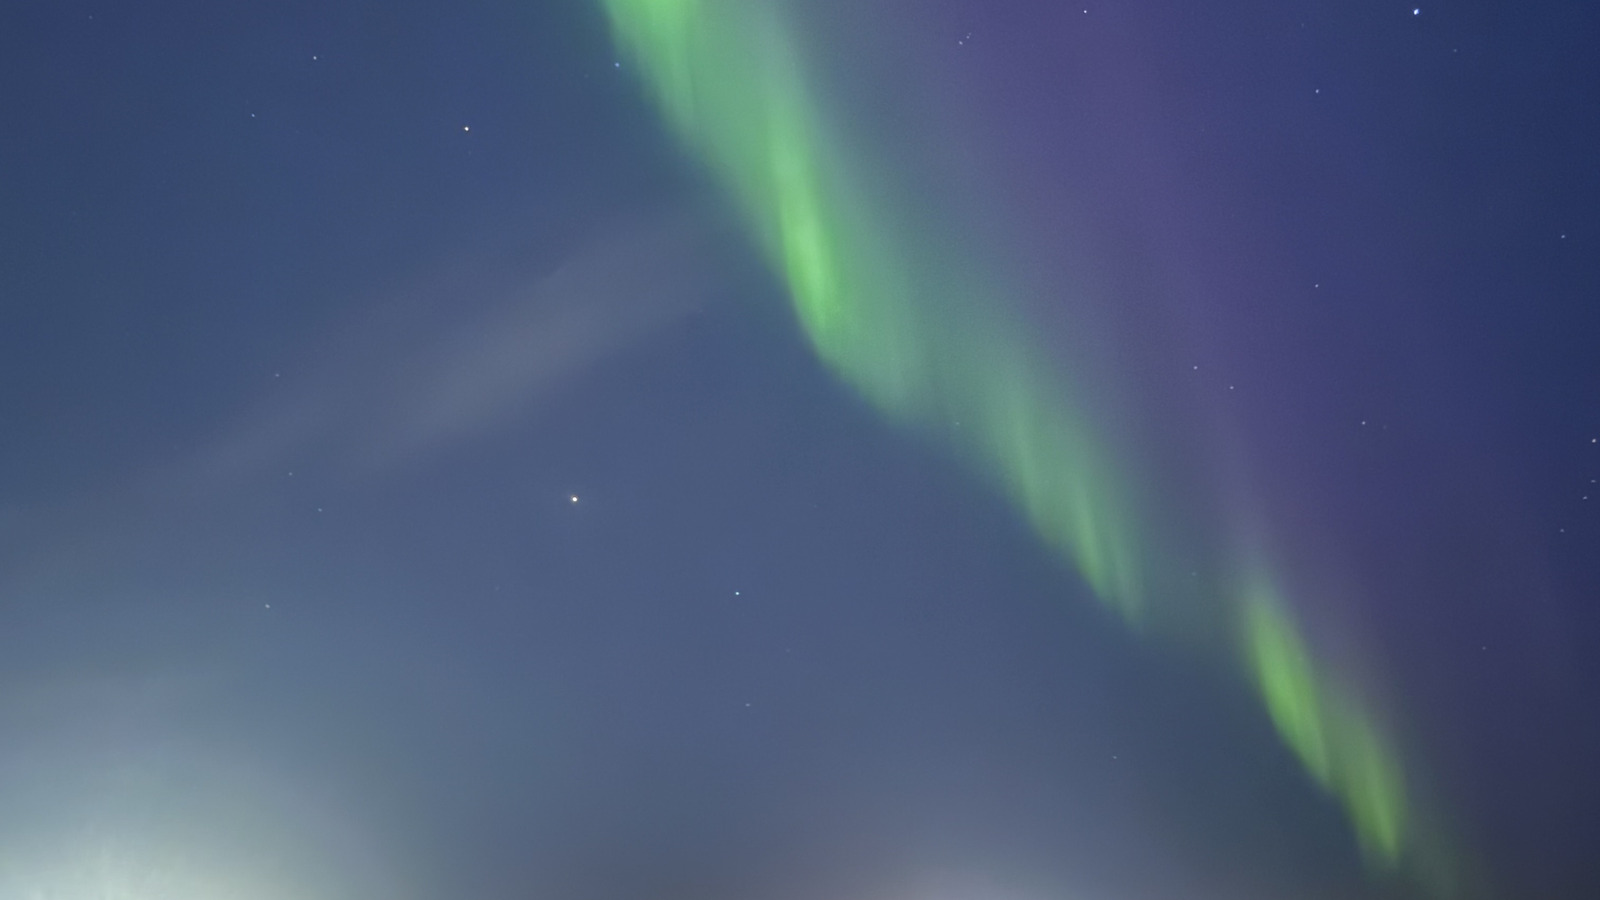
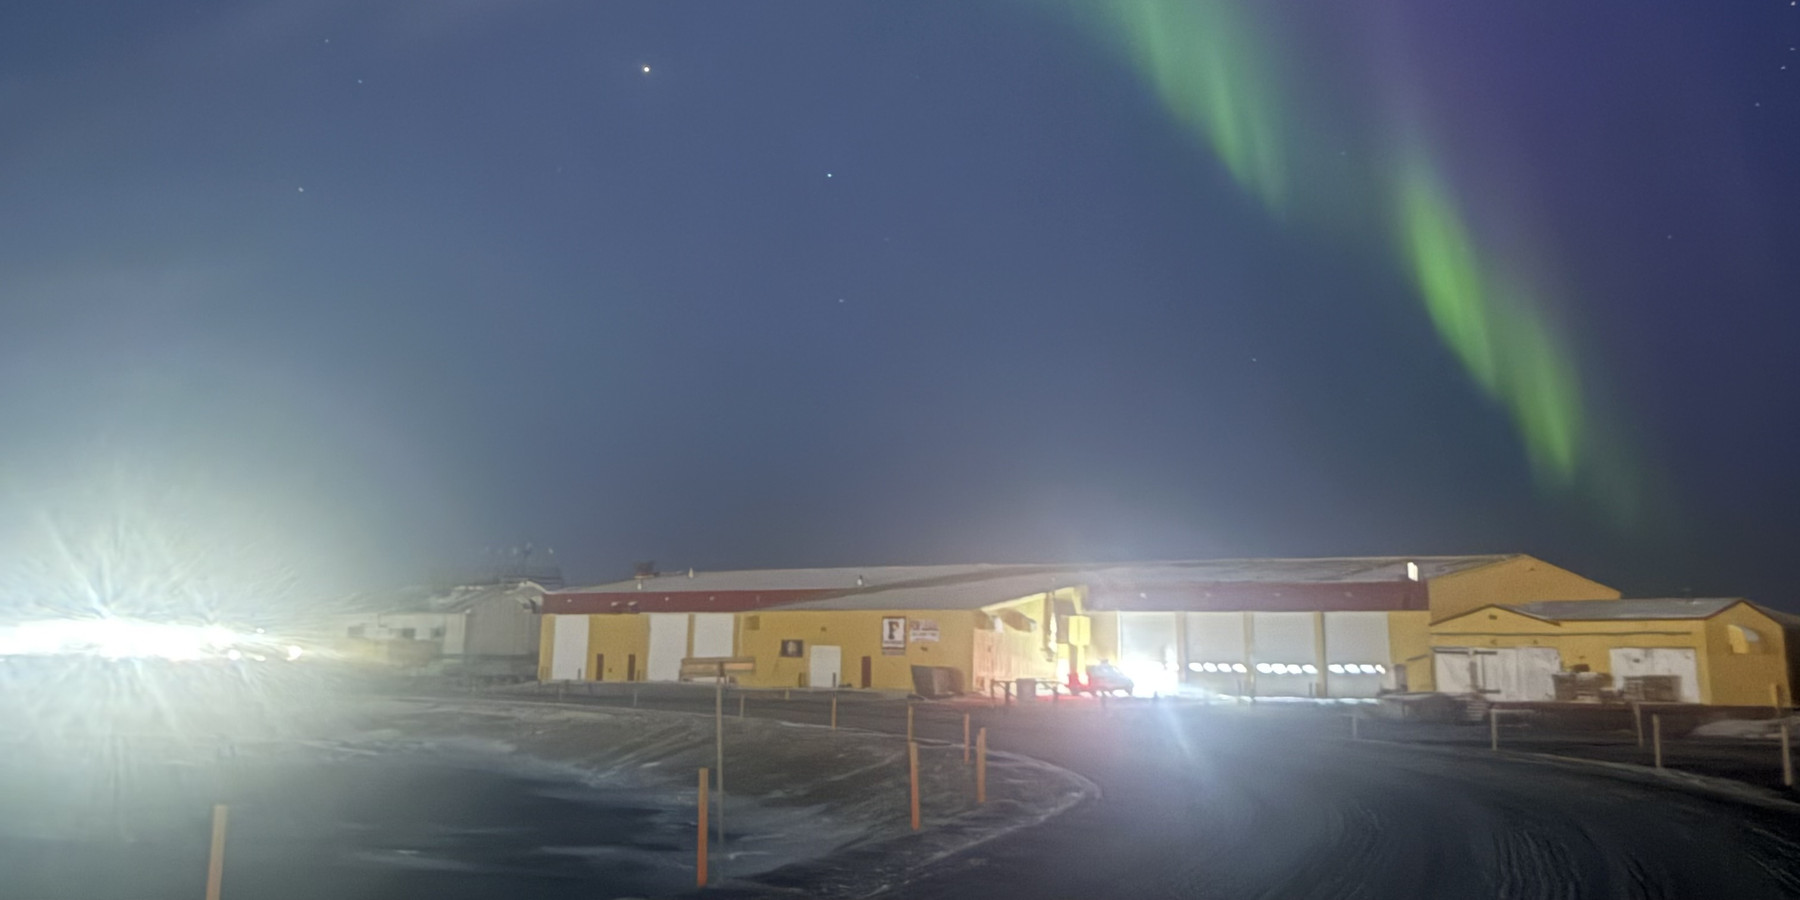
Recrop the aurora band so the Frontier buildings are visible
The first crop was taken from the middle of the portrait original and was
almost entirely sky, with the lit buildings reduced to a sliver at the very
bottom edge. object-fit:cover then trimmed from the centre, cutting what little
remained.

- Crop is now anchored to the bottom of the original at 2:1, so the yellow
  buildings and red roofline sit across the frame with the aurora above
- object-position moved to center 78% so cover cannot trim the buildings away
- Band height eased and the gradient scrim shortened from 62% to 42% and
  lightened, since it was sitting over the buildings
- The image URL is versioned, otherwise browsers keep serving the old crop

diff --git a/index.html b/index.html
@@ -679,9 +679,10 @@ id="molecule-1782303678762000001"> <div class='t396__elem tn-elem t396__elem-fle
 ======================================================================= -->
 <style>
  .fcp-band{position:relative;width:100%;overflow:hidden;background:#0a1322;}
- .fcp-band__img{display:block;width:100%;height:clamp(300px,42vw,560px);object-fit:cover;}
- .fcp-band__scrim{position:absolute;inset:auto 0 0 0;height:62%;pointer-events:none;
-   background:linear-gradient(to bottom,rgba(8,14,26,0),rgba(8,14,26,.78));}
+ .fcp-band__img{display:block;width:100%;height:clamp(300px,38vw,520px);object-fit:cover;
+   object-position:center 78%;}
+ .fcp-band__scrim{position:absolute;inset:auto 0 0 0;height:42%;pointer-events:none;
+   background:linear-gradient(to bottom,rgba(8,14,26,0),rgba(8,14,26,.62));}
  .fcp-band__cap{position:absolute;left:0;right:0;bottom:0;
    padding:0 24px 22px;max-width:1200px;margin:0 auto;
    font-family:'DM Sans',-apple-system,BlinkMacSystemFont,'Segoe UI',Roboto,sans-serif;color:#fff;}
@@ -695,9 +696,9 @@ id="molecule-1782303678762000001"> <div class='t396__elem tn-elem t396__elem-fle
  }
 </style>
 <div class="fcp-band">
-  <img class="fcp-band__img" src="/assets/property/frontier/aurora-frontier-wide.jpg"
+  <img class="fcp-band__img" src="/assets/property/frontier/aurora-frontier-wide.jpg?v=3163cc52"
        alt="Aurora over the Frontier industrial yard at Prudhoe Bay, Alaska"
-       width="1600" height="900" loading="lazy">
+       width="1800" height="900" loading="lazy">
   <div class="fcp-band__scrim"></div>
   <div class="fcp-band__cap">
     <div class="fcp-band__eyebrow">Frontier, Prudhoe Bay</div>
